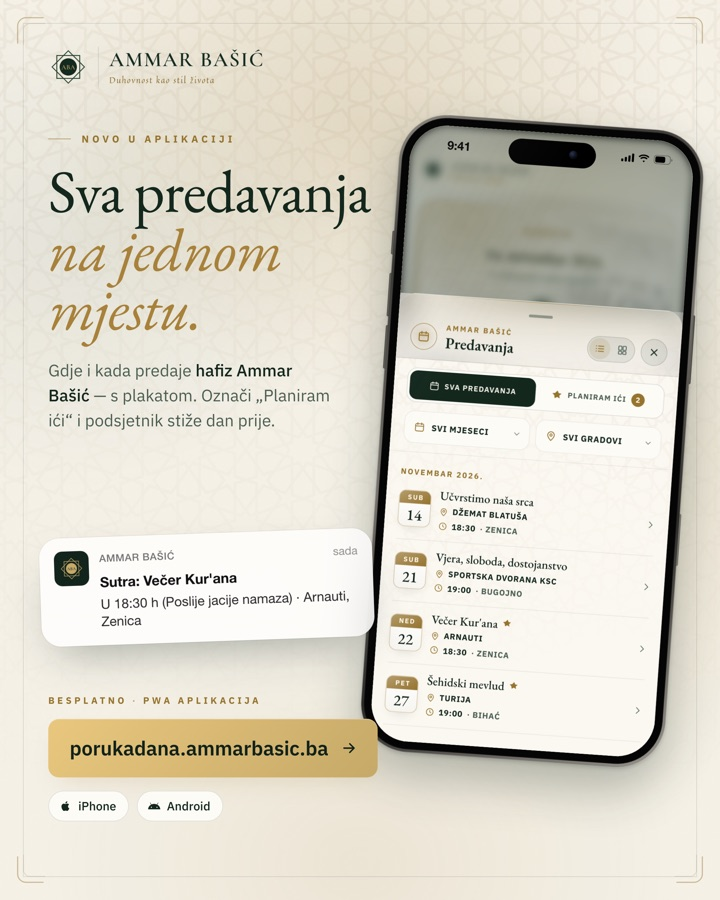
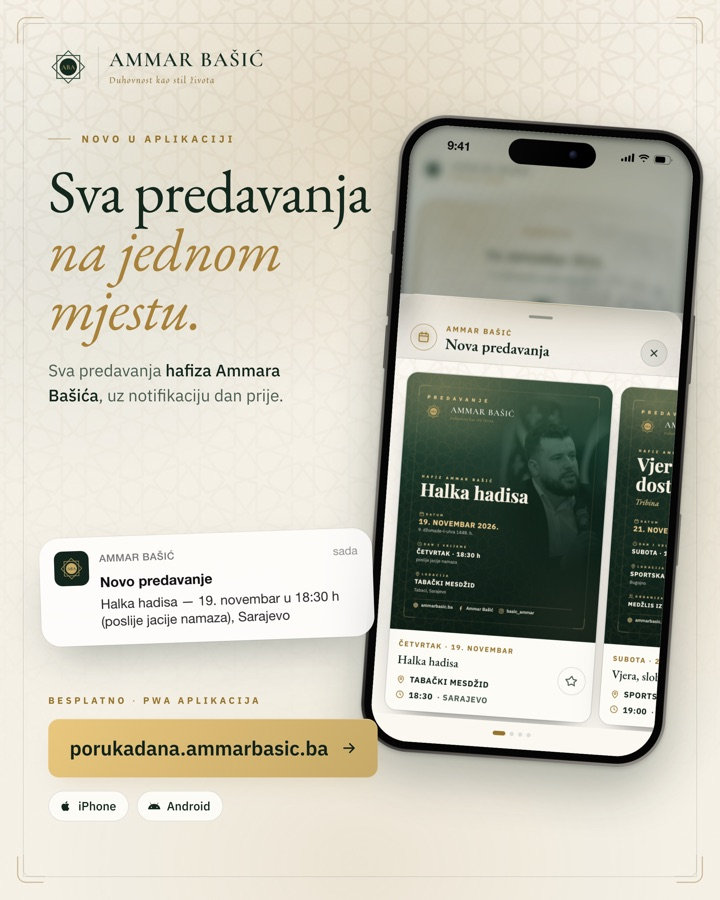
Grafike predavanja s plakatima; /grafike u dva dijela i tab u adminu
- Grafike o predavanjima: u telefonu ekran „Nova predavanja“ s plakatima
  (Halka hadisa, četvrtak, Tabački mesdžid), obavijest „Novo predavanje“,
  podnaslov „Sva predavanja hafiza Ammara Bašića, uz notifikaciju dan prije“
- /grafike: odvojeno Poruka dana i Predavanja, svaki s objavom i storyjem
- Admin: tab Grafike s ugrađenom stranicom /grafike i linkom za novu karticu
- sql/predavanja-prva.sql: prva predavanja bez obavijesti, za puštanje u
  produkciju (README)

Changed region(s): [[0.5194, 0.3733, 0.9472, 0.84], [0.0611, 0.4044, 0.4583, 0.4978], [0.1222, 0.6222, 0.4889, 0.7156]]

diff --git a/public/grafike/index.html b/public/grafike/index.html
@@ -74,6 +74,12 @@
   .dugme:active { transform: scale(.97); }
   .dugme { flex: 1; justify-content: center; height: 42px; }
 
+  /* skup grafika pod svojim natpisom, kao sekcije u aplikaciji */
+  .skup + .skup { margin-top: 44px; }
+  .skup__nas { display: flex; align-items: center; gap: 14px; margin: 0 0 18px; }
+  .skup__nas span { font-size: 12px; font-weight: 700; letter-spacing: .2em; text-transform: uppercase; color: var(--gold); white-space: nowrap; }
+  .skup__nas i { flex: 1; height: 1px; background: linear-gradient(90deg, var(--line), transparent); }
+
   footer { margin-top: 34px; text-align: center; font-size: 12px; line-height: 1.7; color: var(--ink-mute); }
   footer a { color: var(--gold); text-decoration: none; }
 </style>
@@ -87,33 +93,24 @@
 <main>
   <header>
     <img id="znak" src="/assets/brand/ammar_basic_logo_w_m_1.png" alt="">
-    <div class="nad">Poruka dana</div>
+    <div class="nad">Ammar Bašić</div>
     <h1>Grafike za objavu</h1>
-    <p>Objava za feed i story za Instagram i Facebook, u zelenoj i bijeloj verziji. Slike su u punoj rezoluciji.</p>
+    <p>Poruka dana i predavanja — objava za feed i story za Instagram i Facebook, u zelenoj i bijeloj verziji. Slike su u punoj rezoluciji.</p>
     <div class="izbor" role="group" aria-label="Verzija">
       <button type="button" data-t="zelena" aria-pressed="true"><i style="background:#163023"></i>Zelena</button>
       <button type="button" data-t="bijela" aria-pressed="false"><i style="background:#F4EEE1"></i>Bijela</button>
     </div>
   </header>
 
-  <div class="mreza">
-    <section class="karta" data-f="objava">
-      <a class="slika" target="_blank" rel="noopener"><img alt="Objava 4:5" width="900" height="1125"></a>
-      <div class="karta__dno">
-        <div class="karta__ime"><b>Objava</b><span>4:5 · 2160 × 2700 px</span></div>
-        <button class="dugme" data-dijeli hidden type="button"><svg viewBox="0 0 24 24"><path d="M12 3v13M8 7l4-4 4 4M5 13v6a2 2 0 0 0 2 2h10a2 2 0 0 0 2-2v-6"/></svg>Podijeli</button>
-        <a class="dugme dugme--zlatno" data-preuzmi><svg viewBox="0 0 24 24"><path d="M12 3v12M7.5 11 12 15.5l4.5-4.5M5 20h14"/></svg>Preuzmi</a>
-      </div>
-    </section>
-    <section class="karta" data-f="story">
-      <a class="slika" target="_blank" rel="noopener"><img alt="Story 9:16" width="506" height="900"></a>
-      <div class="karta__dno">
-        <div class="karta__ime"><b>Story</b><span>9:16 · 2160 × 3840 px</span></div>
-        <button class="dugme" data-dijeli hidden type="button"><svg viewBox="0 0 24 24"><path d="M12 3v13M8 7l4-4 4 4M5 13v6a2 2 0 0 0 2 2h10a2 2 0 0 0 2-2v-6"/></svg>Podijeli</button>
-        <a class="dugme dugme--zlatno" data-preuzmi><svg viewBox="0 0 24 24"><path d="M12 3v12M7.5 11 12 15.5l4.5-4.5M5 20h14"/></svg>Preuzmi</a>
-      </div>
-    </section>
-  </div>
+  <!-- skupovi grafika; kartice (objava, story) pravi skripta ispod, ista za svaki skup -->
+  <section class="skup" data-g="poruka-dana">
+    <div class="skup__nas"><span>Poruka dana</span><i></i></div>
+    <div class="mreza"></div>
+  </section>
+  <section class="skup" data-g="predavanja">
+    <div class="skup__nas"><span>Predavanja</span><i></i></div>
+    <div class="mreza"></div>
+  </section>
 
   <footer>
     Aplikacija: <a href="/">porukadana.ammarbasic.ba</a>
@@ -122,9 +119,26 @@
 
 <script>
   /* oznaka izvoza — scripts/promo.sh je mijenja, da preglednik ne drži stare slike */
-  const V = '202610132344';
-  const ime = (f, t) => `poruka-dana-${f}-${t}`;
+  const V = '202611141651';
+  // ime fajla: skup (poruka-dana, predavanja) · format · verzija
+  const ime = (k, t) => `${k.closest('.skup').dataset.g}-${k.dataset.f}-${t}`;
   let tema = 'zelena';
+
+  const ikDijeli = '<svg viewBox="0 0 24 24"><path d="M12 3v13M8 7l4-4 4 4M5 13v6a2 2 0 0 0 2 2h10a2 2 0 0 0 2-2v-6"/></svg>';
+  const ikPreuzmi = '<svg viewBox="0 0 24 24"><path d="M12 3v12M7.5 11 12 15.5l4.5-4.5M5 20h14"/></svg>';
+  const karta = (f, naziv, mjere, w, h) => `
+    <section class="karta" data-f="${f}">
+      <a class="slika" target="_blank" rel="noopener"><img alt="${naziv} ${mjere.split(' ')[0]}" width="${w}" height="${h}"></a>
+      <div class="karta__dno">
+        <div class="karta__ime"><b>${naziv}</b><span>${mjere}</span></div>
+        <button class="dugme" data-dijeli hidden type="button">${ikDijeli}Podijeli</button>
+        <a class="dugme dugme--zlatno" data-preuzmi>${ikPreuzmi}Preuzmi</a>
+      </div>
+    </section>`;
+  document.querySelectorAll('.skup .mreza').forEach(m => {
+    m.innerHTML = karta('objava', 'Objava', '4:5 · 2160 × 2700 px', 900, 1125)
+      + karta('story', 'Story', '9:16 · 2160 × 3840 px', 506, 900);
+  });
   try { tema = localStorage.getItem('pd.grafike') === 'bijela' ? 'bijela' : 'zelena'; } catch {}
 
   // Dijeljenje fajla ide pravo u Instagram/WhatsApp na telefonu; gdje toga
@@ -138,7 +152,7 @@
     document.querySelectorAll('.izbor button').forEach(b =>
       b.setAttribute('aria-pressed', String(b.dataset.t === tema)));
     document.querySelectorAll('.karta').forEach(k => {
-      const n = ime(k.dataset.f, tema);
+      const n = ime(k, tema);
       k.querySelector('img').src = `/grafike/${n}.jpg?${V}`;
       k.querySelector('a.slika').href = `/grafike/${n}.png?${V}`;
       const p = k.querySelector('[data-preuzmi]');
@@ -157,7 +171,7 @@
   });
 
   document.querySelectorAll('[data-dijeli]').forEach(b => b.addEventListener('click', async () => {
-    const n = ime(b.closest('.karta').dataset.f, tema);
+    const n = ime(b.closest('.karta'), tema);
     const tekst = b.innerHTML;
     b.textContent = 'Trenutak…';
     try {

diff --git a/public/_promo/index.html b/public/_promo/index.html
@@ -11,9 +11,9 @@
     /_promo/?f=objava   1080×1350
     /_promo/?f=story    1080×1920
     &t=bijela           dnevna tema aplikacije umjesto noćne
-    &g=predavanja       grafika o predavanjima: u telefonu otvoren kalendar,
-                        predavanja iz predavanja.json (snimak test liste), a
-                        obavijest je podsjetnik dan prije
+    &g=predavanja       grafika o predavanjima: u telefonu ekran „Nova
+                        predavanja“ s plakatima (predavanja.json, prvo je
+                        istaknuto), a obavijest je „Novo predavanje“
 
   Grafika NE crta svoj izgled: boje, slova, pozadina (ambijent i uzorak),
   znak i zlatno dugme dolaze iz /css/app.css, iz iste teme koju aplikacija
@@ -143,8 +143,8 @@
   /* obavijest uža i niže, da ne pokrije datume na listi u telefonu */
   .g-predavanja.objava .obav { top: 800px; width: 500px; }
   .g-predavanja.story h1 { font-size: 104px; }
-  .g-predavanja.story .obav { top: 1392px; left: 120px; width: 560px; }
-  .g-predavanja.story .poziv { top: 1610px; }
+  .g-predavanja.story .obav { top: 1424px; left: 120px; width: 560px; }
+  .g-predavanja.story .poziv { top: 1636px; }
 </style>
 </head>
 <body>
@@ -198,24 +198,26 @@
   const $ = id => document.getElementById(id);
 
   /* Grafika o predavanjima: aplikacija u telefonu radi lokalno (bez /api),
-     pa predavanja čita iz localStorage — tu ide snimak prave liste. Sva su
-     „viđena“ (nema ponude novih preko kalendara), dva se prate (zvjezdica i
-     broj „Planiram ići“), a obavijest je podsjetnik za jedno od njih. */
+     pa predavanja čita iz localStorage — tu ide predavanja.json (prvo je ono
+     koje grafika ističe). Nijedno nije „viđeno“, pa aplikacija sama otvori
+     ekran „Nova predavanja“ s plakatima, a obavijest je ista koju server
+     šalje kad se predavanje doda (sadrzajNovog u api/_lib/obavijesti.js). */
   let predavanja = [];
   if (g === 'predavanja') {
     predavanja = await (await fetch('/_promo/predavanja.json')).json();
-    const pracena = predavanja.slice(-2).map(p => p.id);
     Object.entries({
-      'pd.predavanjaLokalno': predavanja, 'pd.predavanjaVidjena': predavanja.map(p => p.id),
-      'pd.predavanjaPracena': pracena, 'pd.predavanjaObavijesti': true, 'pd.predavanjaGrad': '',
+      'pd.predavanjaLokalno': predavanja, 'pd.predavanjaVidjena': [],
+      'pd.predavanjaPracena': [], 'pd.predavanjaObavijesti': true, 'pd.predavanjaGrad': '',
     }).forEach(([k, v]) => localStorage.setItem(k, JSON.stringify(v)));
     $('nad').textContent = 'Novo u aplikaciji';
     $('naslov').innerHTML = 'Sva predavanja <em>na jednom mjestu.</em>';
-    $('pod').innerHTML = 'Gdje i kada predaje <b>hafiz Ammar Bašić</b> — s plakatom. Označi „Planiram ići“ i podsjetnik stiže dan prije.';
-    const p = predavanja.find(x => x.id === pracena[0]) || predavanja[0];
+    $('pod').innerHTML = 'Sva predavanja <b>hafiza Ammara Bašića</b>, uz notifikaciju dan prije.';
+    const p = predavanja[0];
+    const MJ = ['januar', 'februar', 'mart', 'april', 'maj', 'juni', 'juli', 'august', 'septembar', 'oktobar', 'novembar', 'decembar'];
+    const [, m, d] = p.datum.split('-').map(Number);
     $('obav-app').textContent = 'Ammar Bašić';
-    $('obav-nas').textContent = `Sutra: ${p.naslov}`;
-    $('obav-tekst').textContent = `U ${p.vrijeme} h${p.vrijeme_opis ? ` (${p.vrijeme_opis})` : ''} · ${[p.mjesto, p.grad].filter(Boolean).join(', ')}`;
+    $('obav-nas').textContent = 'Novo predavanje';
+    $('obav-tekst').textContent = `${p.naslov} — ${d}. ${MJ[m - 1]} u ${p.vrijeme} h${p.vrijeme_opis ? ` (${p.vrijeme_opis})` : ''}${p.grad ? `, ${p.grad}` : ''}`;
   }
 
   // znak u boji teme — isto kao primijeniZnakove() u aplikaciji
@@ -261,13 +263,7 @@
       .razvoj, .toast-hold, .nadogradnja { display: none !important; }
       .hdr { padding-top: 48px !important; } html, body { overflow: hidden !important; }`;
     okvir.contentDocument.head.appendChild(s);
-    // predavanja: kalendar otvoren čim se modul učita (dugme u donjoj traci)
-    if (g === 'predavanja') {
-      const t = setInterval(() => {
-        const b = okvir.contentDocument.querySelector('#nav-predavanja');
-        if (b && okvir.contentDocument.documentElement.classList.contains('ucitano')) { clearInterval(t); b.click(); }
-      }, 100);
-    }
+    // predavanja: ekran „Nova predavanja“ aplikacija otvara sama (ništa nije viđeno)
   });
 
   // današnja poruka — ista koju telefon prikazuje (u grafici o predavanjima obavijest je podsjetnik)

diff --git a/public/admin/index.html b/public/admin/index.html
@@ -68,6 +68,7 @@
       <button data-tab="lista" aria-current="true" title="Predavanja"><svg class="ik"><use href="#i-kalendar"/></svg><span>Predavanja</span></button>
       <button data-tab="citati" title="Poruke"><svg class="ik"><use href="#i-navod"/></svg><span>Poruke</span></button>
       <button data-tab="statistika" title="Statistika"><svg class="ik"><use href="#i-grafikon"/></svg><span>Statistika</span></button>
+      <button data-tab="grafike" title="Grafike"><svg class="ik"><use href="#i-plakat"/></svg><span>Grafike</span></button>
     </nav>
     <div class="zaglavlje__desno">
       <span class="znacka" id="rezim" hidden>lokalni režim</span>
@@ -111,6 +112,14 @@
         <button class="tiho opasno" id="citati-ponisti" hidden><svg class="ik"><use href="#i-ponisti"/></svg> Poništi izmjene</button>
       </div>
       <div class="povrsina redovi" id="citati"></div>
+    </section>
+
+    <!-- grafike za mreže: stranica /grafike, ugrađena; preuzimanje i dijeljenje rade i odavde -->
+    <section class="grafike-pogled" data-pogled="grafike" hidden>
+      <div class="grafike-veza">
+        <a href="/grafike/" target="_blank" rel="noopener"><svg class="ik"><use href="#i-link"/></svg> Otvori grafike u novoj kartici</a>
+      </div>
+      <iframe class="grafike" id="grafike" title="Grafike" allow="web-share"></iframe>
     </section>
 
     <!-- statistika: stranica /analytics, ugrađena; šifru uzima iz ovog preglednika -->

diff --git a/public/admin/admin.css b/public/admin/admin.css
@@ -156,6 +156,12 @@ textarea { min-height: 96px; resize: vertical; line-height: 1.55; }
 /* dok statistika ne dobije podatke, okvir je skriven, a preko njega se vrti
    zlatni krug — jedan, isti kao u aplikaciji, bez praznog ekrana i natpisa */
 .statistika-pogled { position: relative; }
+
+/* grafike: ugrađena stranica /grafike, a iznad nje link za novu karticu */
+.grafike { display: block; width: 100%; min-height: 70vh; border: 0; border-radius: 16px; background: transparent; }
+.grafike-veza { display: flex; justify-content: flex-end; margin: 0 0 10px; }
+.grafike-veza a { display: inline-flex; align-items: center; gap: 7px; font-size: 13px; font-weight: 600; color: var(--gold); text-decoration: none; }
+.grafike-veza a:hover { text-decoration: underline; }
 .statistika:not(.spremno) { visibility: hidden; }
 .statistika-ucitava { position: absolute; inset: 0 0 auto; height: 60vh; display: grid; place-items: center; }
 .statistika-ucitava[hidden] { display: none; }

diff --git a/public/admin/admin.js b/public/admin/admin.js
@@ -84,6 +84,22 @@ function pogled(ime) {
   scrollTo({ top: 0 });
   if (ime === 'citati') ucitajCitate();
   if (ime === 'statistika') ucitajStatistiku();
+  if (ime === 'grafike') ucitajGrafike();
+}
+
+/* Grafike su stranica /grafike, ugrađena tek kad se tab prvi put otvori.
+   Okvir raste sa sadržajem, kao kod statistike — bez skrola unutar skrola. */
+function ucitajGrafike() {
+  const okvir = $('#grafike');
+  if (okvir.src) return;
+  okvir.addEventListener('load', () => {
+    const dok = okvir.contentDocument;
+    if (!dok) return;
+    const visina = () => { okvir.style.height = `${dok.documentElement.scrollHeight}px`; };
+    new ResizeObserver(visina).observe(dok.body);
+    visina();
+  });
+  okvir.src = '/grafike/';
 }
 
 /* Statistika je stranica /analytics, ugrađena tek kad se tab prvi put otvori.

diff --git a/README.md b/README.md
@@ -46,6 +46,8 @@ api/                        Vercel serverless funkcije
   _lib/push.js              VAPID, izbor poruke, slanje
 
 sql/shema.sql               tabele + RLS, zalijepi u Supabase SQL Editor
+sql/predavanja-prva.sql     prva predavanja pri puštanju u produkciju — bez
+                            obavijesti; korisnici ih vide na ekranu „Nova predavanja“
 scripts/vapid.js            generiše VAPID ključeve
 scripts/prebaci.js          jednokratna seoba starih pretplata iz Redisa
 scripts/promo.sh            izvoz grafika u public/grafike/ (objava 4:5, story 9:16, zelena i bijela)
@@ -305,6 +307,15 @@ ključevi. Ništa odatle ne dira produkciju — ni bazu, ni pretplate korisnika.
   instalirana aplikacija traži prijavu u Vercel.
 - Na test adresi gore stoji oznaka **TEST**, a predavanja su uključena sama
   (bez `?predavanja=1`) — vidi `TEST` u `js/app.js`.
+
+### Puštanje predavanja u produkciju
+
+Prva predavanja ne idu kroz admin, da korisnici ne dobiju niz notifikacija:
+upišu se u [`sql/predavanja-prva.sql`](sql/predavanja-prva.sql) i pokrenu u
+SQL editoru produkcijske baze (poslije `shema.sql`). Tako nemaju započetu
+obavijest, a aplikacija nove verzije ih pri prvom otvaranju sama ponudi na
+ekranu „Nova predavanja“. Svako sljedeće predavanje dodaje se kroz admin i
+uz „Pošalji obavijest“ šalje notifikaciju kao i do sada.
 - Cron na test ne ide: poruka dana se šalje ručno,
   `https://<test adresa>/api/send?secret=<CRON_SECRET>` — samo uređajima
   iz test baze.
